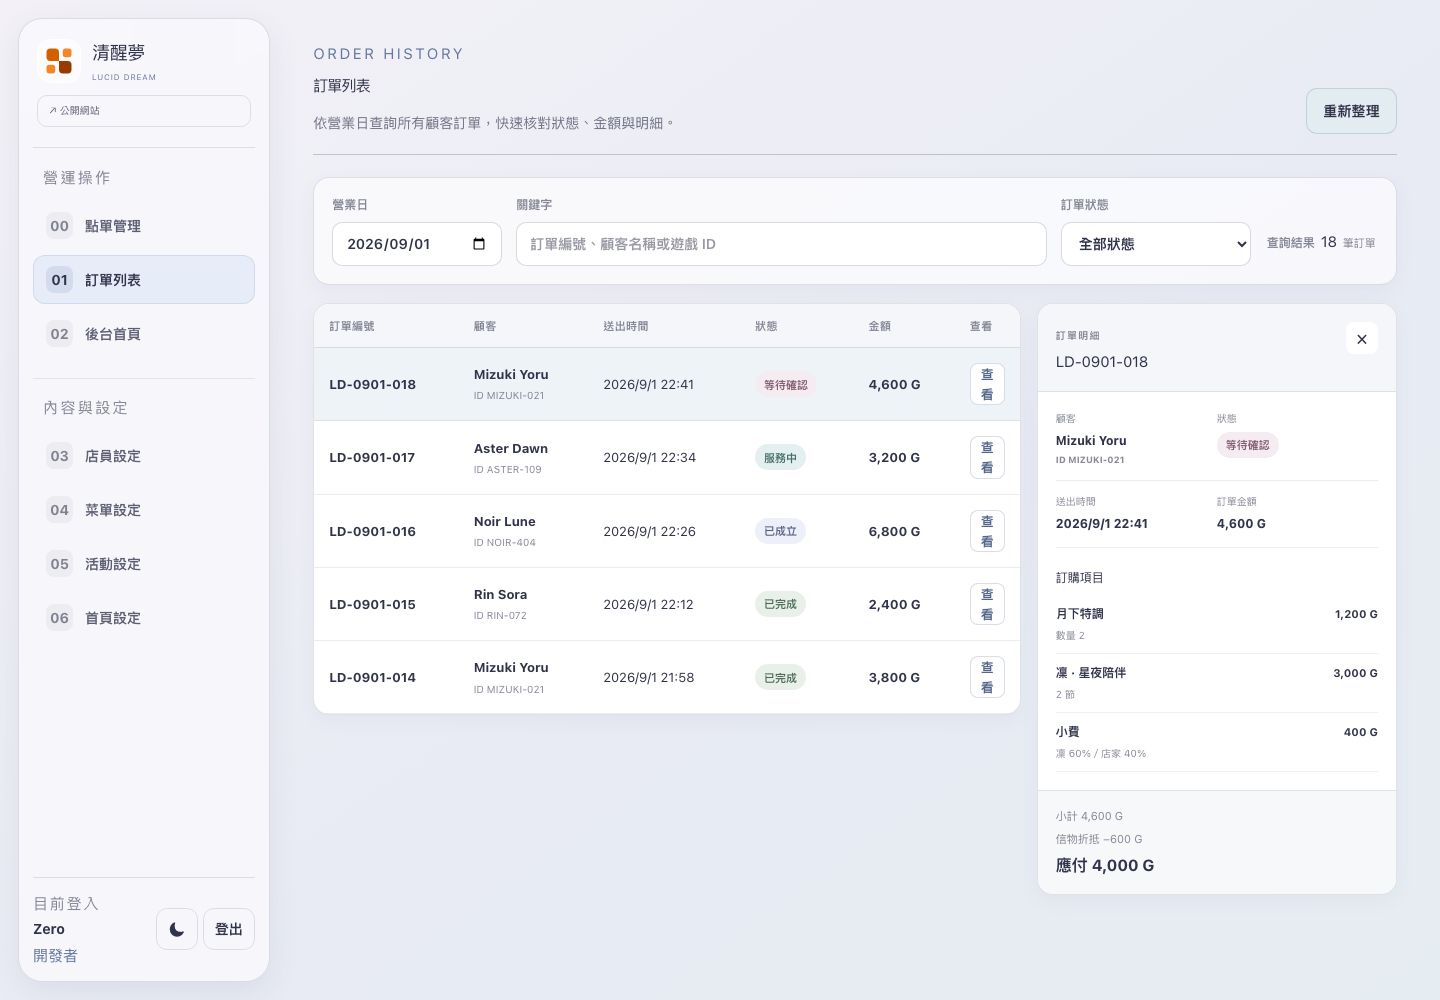
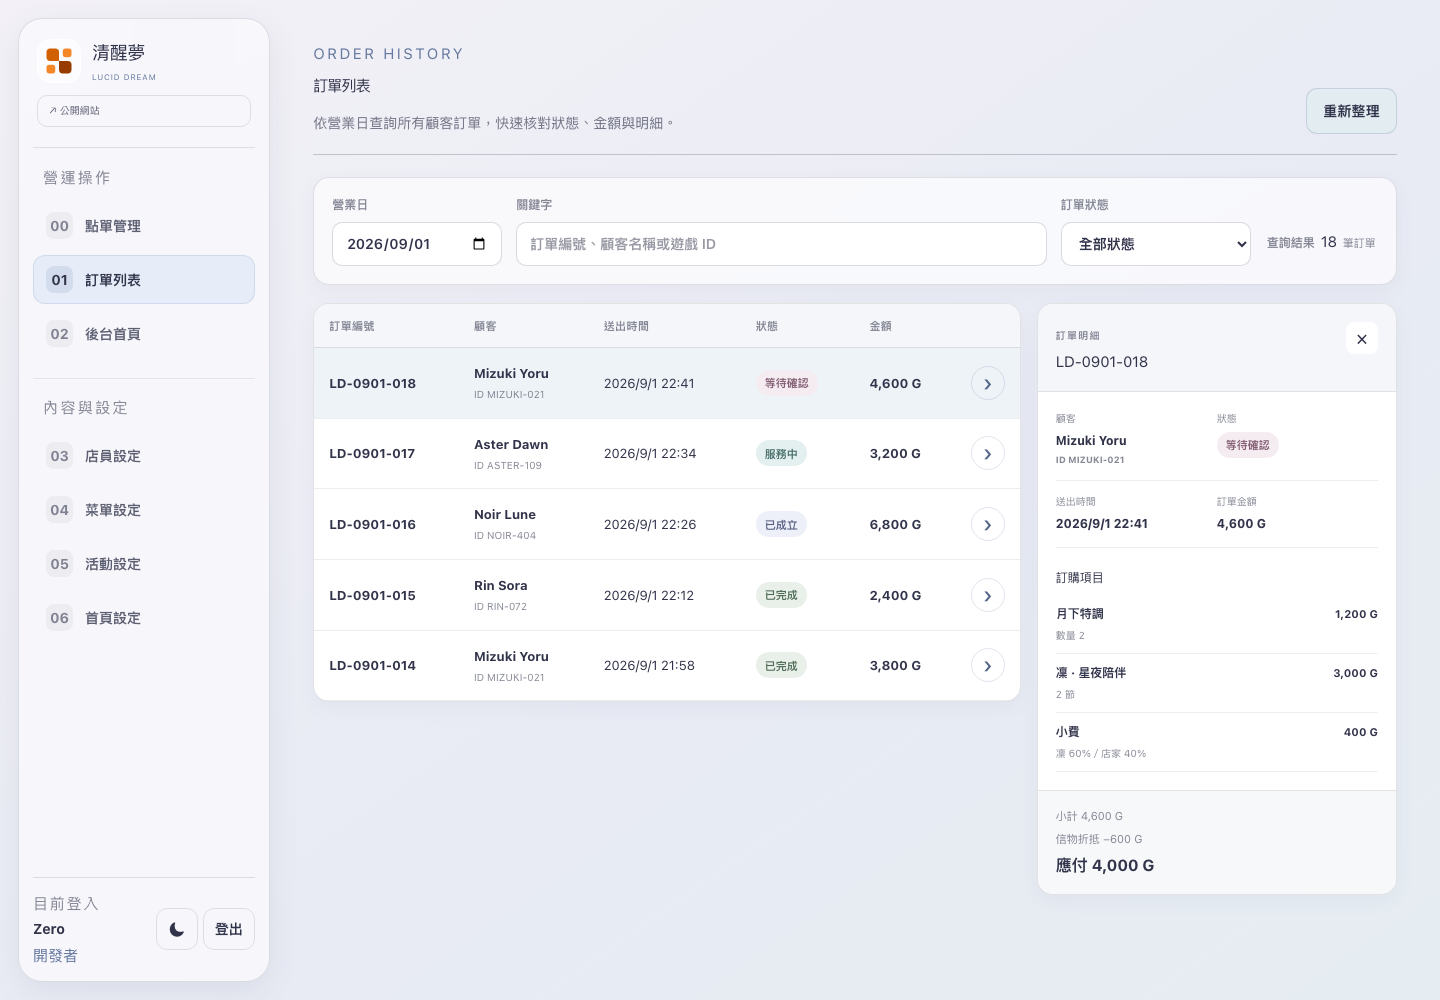
fix: prevent admin button labels from wrapping

diff --git a/app/admin/preview/order-list/page.tsx b/app/admin/preview/order-list/page.tsx
@@ -21,7 +21,7 @@ export default function AdminOrderListPreviewPage() {
     <div className="adminWorkspace"><div className="adminContent"><section className="adminPage adminOrderListPage">
       <header className="adminPageHeading"><div><p className="eyebrow">ORDER HISTORY</p><h1>訂單列表</h1><p>依營業日查詢所有顧客訂單，快速核對狀態、金額與明細。</p></div><div className="adminPageActions"><button className="adminButton adminButton-secondary" type="button">重新整理</button></div></header>
       <section className="adminOrderListFilters"><label><span>營業日</span><input type="date" defaultValue="2026-09-01" /></label><label className="adminOrderListKeyword"><span>關鍵字</span><input placeholder="訂單編號、顧客名稱或遊戲 ID" /></label><label><span>訂單狀態</span><select defaultValue="all"><option value="all">全部狀態</option></select></label><div className="adminOrderListCount"><span>查詢結果</span><strong>18</strong><small>筆訂單</small></div></section>
-      <div className="adminOrderListLayout"><section className="adminOrderListTableWrap"><table className="adminOrderListTable"><thead><tr><th>訂單編號</th><th>顧客</th><th>送出時間</th><th>狀態</th><th>金額</th><th>查看</th></tr></thead><tbody>{rows.map((row, index) => <tr className={index === 0 ? "isSelected" : ""} key={row.id}><td><strong>{row.number}</strong></td><td><strong>{row.customer}</strong><small>ID {row.gameId}</small></td><td>{row.time}</td><td><span className={`adminOrderStatus is-${row.tone}`}>{row.status}</span></td><td><strong>{row.total}</strong></td><td><button type="button">查看</button></td></tr>)}</tbody></table></section>
+      <div className="adminOrderListLayout"><section className="adminOrderListTableWrap"><table className="adminOrderListTable"><thead><tr><th>訂單編號</th><th>顧客</th><th>送出時間</th><th>狀態</th><th>金額</th><th aria-label="開啟訂單明細" /></tr></thead><tbody>{rows.map((row, index) => <tr className={index === 0 ? "isSelected" : ""} key={row.id}><td><strong>{row.number}</strong></td><td><strong>{row.customer}</strong><small>ID {row.gameId}</small></td><td>{row.time}</td><td><span className={`adminOrderStatus is-${row.tone}`}>{row.status}</span></td><td><strong>{row.total}</strong></td><td><button type="button" aria-label={`查看訂單 ${row.number}`}><span aria-hidden="true">›</span></button></td></tr>)}</tbody></table></section>
         <aside className="adminOrderListDetail"><header><div><span>訂單明細</span><h2>LD-0901-018</h2></div><button type="button">×</button></header><dl className="adminOrderDetailSummary"><div><dt>顧客</dt><dd>Mizuki Yoru<small>ID MIZUKI-021</small></dd></div><div><dt>狀態</dt><dd><span className="adminOrderStatus is-submitted">等待確認</span></dd></div><div><dt>送出時間</dt><dd>2026/9/1 22:41</dd></div><div><dt>訂單金額</dt><dd>4,600 G</dd></div></dl><section className="adminOrderDetailItems"><h3>訂購項目</h3><div><span><strong>月下特調</strong><small>數量 2</small></span><b>1,200 G</b></div><div><span><strong>凜 · 星夜陪伴</strong><small>2 節</small></span><b>3,000 G</b></div><div><span><strong>小費</strong><small>凜 60%／店家 40%</small></span><b>400 G</b></div></section><footer><span>小計 4,600 G</span><span>信物折抵 −600 G</span><strong>應付 4,000 G</strong></footer></aside>
       </div>
     </section></div></div>

diff --git a/app/admin/_components/AdminOrderListPage.jsx b/app/admin/_components/AdminOrderListPage.jsx
@@ -78,8 +78,8 @@ export function AdminOrderListPage() {
     <div className="adminOrderListLayout">
       <section className="adminOrderListTableWrap" aria-busy={loading}>
         <table className="adminOrderListTable">
-          <thead><tr><th>訂單編號</th><th>顧客</th><th>送出時間</th><th>狀態</th><th>金額</th><th><span className="srOnly">查看</span></th></tr></thead>
-          <tbody>{visibleOrders.map((order) => <tr key={order.id} className={order.id === selectedId ? 'isSelected' : ''} onClick={() => setSelectedId(order.id)}><td data-label="訂單編號"><strong>{order.orderNumber || '附掛加購服務單'}</strong></td><td data-label="顧客"><strong>{order.customerName}</strong><small>ID {order.gameId}</small></td><td data-label="送出時間">{new Date(order.submittedAt).toLocaleString('zh-TW')}</td><td data-label="狀態"><span className={`adminOrderStatus is-${order.status}`}>{statusLabels[order.status] || order.status}</span></td><td data-label="金額"><strong>{money(order.totalAmount)}</strong></td><td><button type="button" onClick={(event) => { event.stopPropagation(); setSelectedId(order.id); }}>查看</button></td></tr>)}</tbody>
+          <thead><tr><th>訂單編號</th><th>顧客</th><th>送出時間</th><th>狀態</th><th>金額</th><th aria-label="開啟訂單明細" /></tr></thead>
+          <tbody>{visibleOrders.map((order) => <tr key={order.id} className={order.id === selectedId ? 'isSelected' : ''} onClick={() => setSelectedId(order.id)}><td data-label="訂單編號"><strong>{order.orderNumber || '附掛加購服務單'}</strong></td><td data-label="顧客"><strong>{order.customerName}</strong><small>ID {order.gameId}</small></td><td data-label="送出時間">{new Date(order.submittedAt).toLocaleString('zh-TW')}</td><td data-label="狀態"><span className={`adminOrderStatus is-${order.status}`}>{statusLabels[order.status] || order.status}</span></td><td data-label="金額"><strong>{money(order.totalAmount)}</strong></td><td><button type="button" aria-label={`查看訂單 ${order.orderNumber || ''}`} onClick={(event) => { event.stopPropagation(); setSelectedId(order.id); }}><span aria-hidden="true">›</span></button></td></tr>)}</tbody>
         </table>
         {!loading && !visibleOrders.length ? <div className="adminOrderListEmpty"><strong>沒有符合條件的訂單</strong><p>請調整營業日、關鍵字或狀態。</p></div> : null}
         {loading ? <div className="adminOrderListEmpty"><strong>正在載入訂單…</strong></div> : null}

diff --git a/app/admin/admin-modern.css b/app/admin/admin-modern.css
@@ -368,6 +368,7 @@
 }
 .adminButton-ghost { background:transparent; }
 .adminButton:hover:not(:disabled) { box-shadow:none; }
+.adminTheme button { white-space:nowrap; }
 
 .adminBusinessOperations,
 .adminBusinessOperations.mode-coordination,
@@ -481,7 +482,9 @@
 .adminOrderListTable td strong { display:block; font-size:13px; }
 .adminOrderListTable td small { display:block; margin-top:4px; color:var(--color-fg-mute); font-size:10px; }
 .adminOrderListTable td:last-child { width:56px; }
-.adminOrderListTable td button { min-height:34px; padding:0 10px; border:1px solid rgba(101,120,159,.25); border-radius:8px; background:#fff; color:#536588; font-weight:700; cursor:pointer; }
+.adminOrderListTable td button { display:grid; place-items:center; width:34px; height:34px; padding:0; border:1px solid rgba(101,120,159,.2); border-radius:50%; background:transparent; color:#536588; cursor:pointer; }
+.adminOrderListTable td button span { transform:translateY(-1px); font:500 24px/1 var(--font-sans); }
+.adminOrderListTable td button:hover { border-color:rgba(101,120,159,.38); background:#fff; }
 .adminOrderStatus { display:inline-flex; align-items:center; min-height:26px; padding:0 9px; border-radius:999px; background:#edf0f5; color:#555b6c; font-size:11px; font-weight:800; white-space:nowrap; }
 .adminOrderStatus.is-submitted,
 .adminOrderStatus.is-partially_confirmed,
